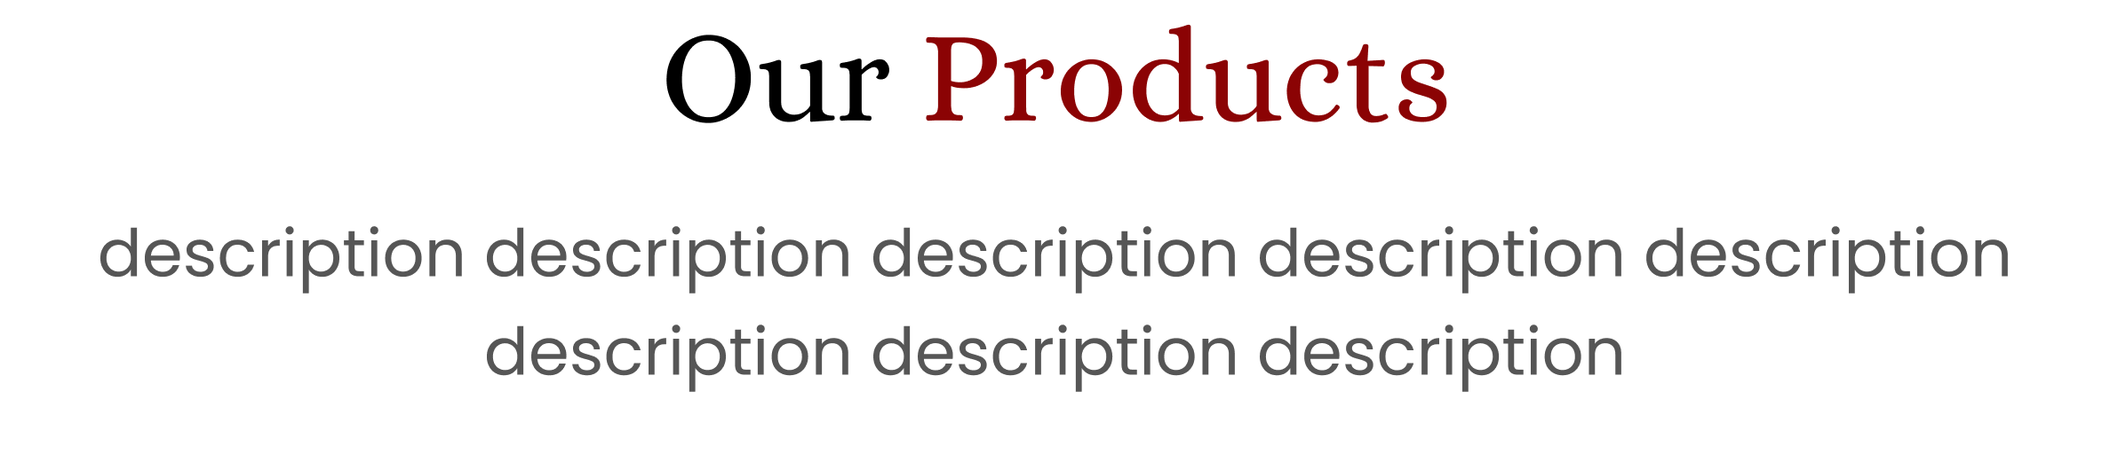
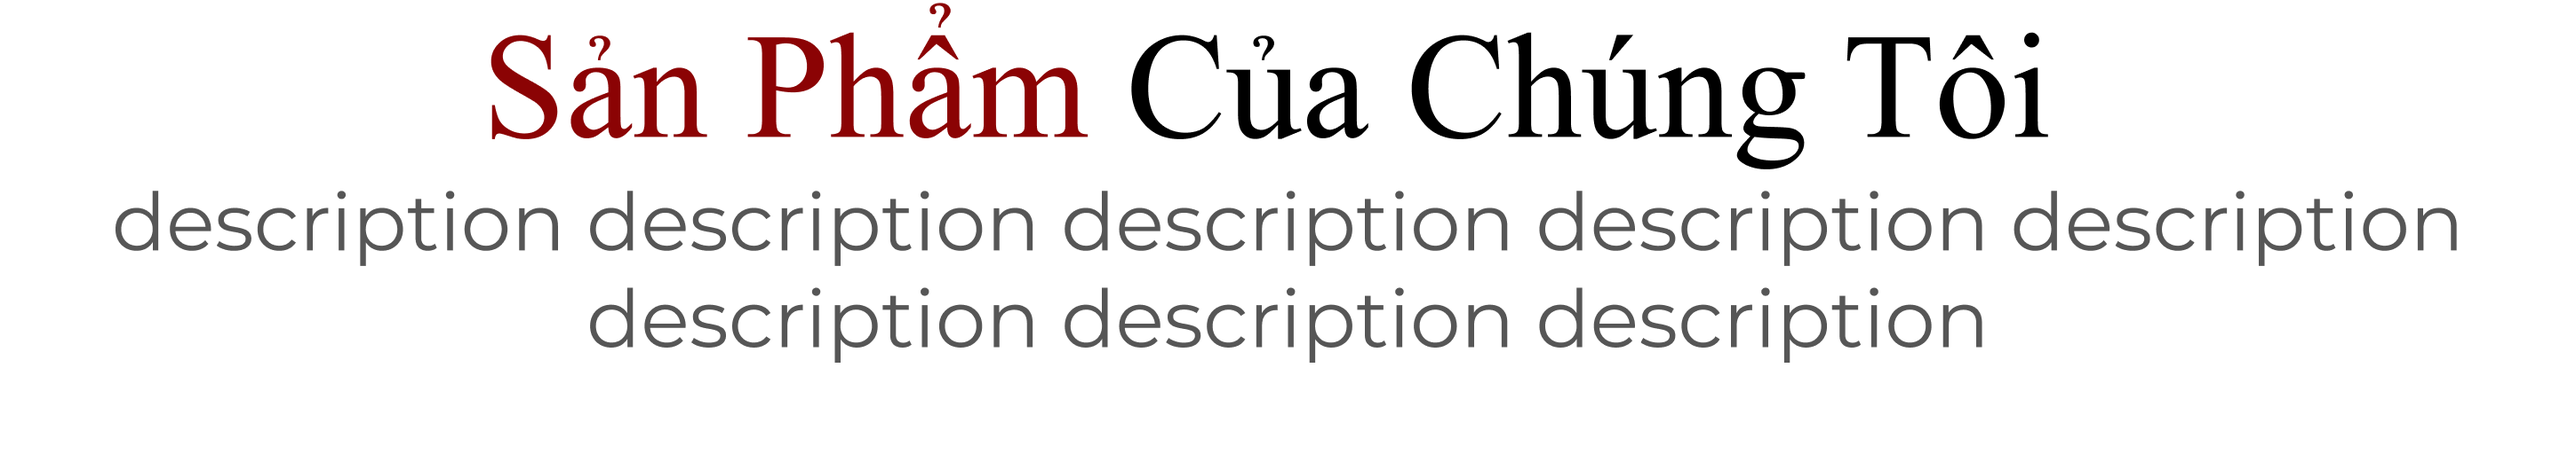
hehehehehehe

Changed region(s): [[0.0312, 0.4375, 0.9659, 0.8438], [0.1869, 0.0625, 0.8101, 0.375], [0.3427, 0.0, 0.3739, 0.0312]]

diff --git a/index.html b/index.html
@@ -10,17 +10,21 @@
 <body>
     <div class="header">
         <img class="logo"src="Images/zyro-image 1.png">
+        <div class="menu-bar">
+            <div style="color:#8B0304;margin-left: 4%;">Trang chủ</div>
+            <div>Về công ty</div>
+            <div>Sản phẩm</div>
+            <div>Blog</div>
+        </div>
         <div class="search-bar">
             <input class="searchh" type="text" placeholder="Tìm kiếm...">
             <button>
                 <img class="searchicon" src="images/search-icon.png">
             </button>
         </div>
-        <div class="menu-bar">
-            <div style="color:#8B0304;margin-left: 4%;">Home</div>
-            <div>About</div>
-            <div>Products</div>
-            <div>Blog</div>
+        <div class="login-sign">
+            <div class="login">Đăng nhập/Đăng kí</div>
+            <img class="profile" src="Images/profile-circle.png">
             <img class="bag" src="images/bag.png">
         </div>
     </div>
@@ -28,7 +32,7 @@
         <div class="invisible1">
             <div>Chả giò Chà Bông</div>
             <div>Chất lượng</div>
-            <button class="button1"> SHOP NOW</button>
+            <button class="button1">Mua hàng</button>
         </div>
         <img class="yellow" src="Images/Ellipse 2.png">
         <img class="crispy" src="Images/Crispy-Spring-Rolls-PNG-Image 1.png">
@@ -37,9 +41,9 @@
     <div class="main-page">
         <img class="product-title"src="Images/Products title.png">
         <div class="page-number">
-            <button class="page">Page 1</button>
-            <button class="page">Page 2 </button>
-            <button class="page">Page 3</button>
+            <button class="page">Trang 1</button>
+            <button class="page">Trang 2 </button>
+            <button class="page">Trang 3</button>
         </div>
         <div class="product-show1">
             <div class="line1">
@@ -96,9 +100,9 @@
             </div>
         </div>
         <div class="page-number" style="margin-top:7vw">
-            <button class="page">Page 1</button>
-            <button class="page">Page 2 </button>
-            <button class="page">Page 3</button>
+            <button class="page">Trang 1</button>
+            <button class="page">Trang 2 </button>
+            <button class="page">Trang 3</button>
         </div>
         <img class="About" src="Images/ABOUT.png">
         <img class="keep-order" src="Images/keep your order.png">
@@ -119,7 +123,32 @@
             </div>
             <img class="uber" src="Images/uber.png">
         </div>
-        <img class="footer" src="Images/footer.png">
+        <img class="blog" src="Images/blog.png">
+        <div class="blog-info">
+            <button class="arrow1">
+                <img class="a1" src="Images/arrow1.png">
+            </button>
+            <div class="blog1">
+                <img class="blog-product1" src="images/blog-product1.png">
+                <div class="huhu1">TITLE</div>
+                <div class="huhu2">Noi dung</div>
+                <button class="cry1">
+                    <img class=cry2 src="Images/doc them.png">
+                </button>
+            </div>
+            <div class="blog2">
+                <img class="blog-product1" src="images/blog-product1.png">
+                <div class="huhu1">TITLE</div>
+                <div class="huhu2">Noi dung</div>
+                <button class="cry1">
+                    <img class=cry2 src="Images/doc them.png">
+                </button>
+            </div>
+            <button class="arrow2">
+                <img class="a2" src="Images/arrow2.png">
+            </button>
+        </div>
     </div>
+    <img class="footer" src="Images/footer.png">
 </body>
 </html>

diff --git a/style.css b/style.css
@@ -6,13 +6,12 @@ body{
 .header{
     position: relative;
     height:11%;
-    border:solid;
     width:100%;
     display: flex;
     flex-direction:row;
     align-items: center;
     justify-content: space-between;
-    background-color: white;
+    background-color: rgb(248, 248, 248);
 }
 .logo{
     max-width:6vw;
@@ -21,30 +20,30 @@ body{
 .menu-bar{
     display: flex;
     align-items: center;
-    width:34vw;
+    width:36vw;
     height:4vw;
-    margin-right:1vw;
-}
+    justify-content: space-between;
+}   
 .menu-bar div{
-    margin-right:3.2vw;
     font-size:1.4vw;
+    width:fit-content;
 }
 .bag{
     height:2.8vw;
     width:3vw;
-    margin-right: 1vw;
 }
 .search-bar{
     position: relative;
     width:25vw;
     height:2.5vw;
-    border:solid;
     border-color: #ECECEC;
     background-color: #ECECEC;
     border-radius: 50px;
     display: flex;
     align-items: center;
     justify-content: space-between;
+    margin-right:2vw;
+    margin-left:3.2vw;
 }
 .searchh{
     width:20vw;
@@ -73,13 +72,29 @@ body{
 .search-bar button:hover{
     cursor: pointer;
 }
+.login-sign{
+    display:flex;
+    width:28vw;
+    height:3.2vw;
+    align-items: center;
+    justify-content: end;
+}
+.login{
+    font-size:1.3vw;
+    margin-right:1vw;
+    font-family:Monterrat;
+} 
+.profile{
+    height:3vw;
+    width:3.5vw;
+    margin-right:1vw;
+}
 .home{
     height:45vw;
     width:100%;
     display:flex;
     justify-content: space-between;
     position: relative;
-    border:solid;
 }
 .invisible1{
     height:fit-content;
@@ -102,7 +117,7 @@ body{
     border-radius:6px;
     margin-top:3%;
     border-style: none;
-    font-size:1vw;
+    font-size:1.5vw;
     font-family: Alice;
 }
 .button1:hover{
@@ -133,7 +148,7 @@ body{
 }
 .main-page{
     width:100%;
-    height:270vw;
+    height:298vw;
     display: flex;
     flex-direction: column;
     align-items: center;
@@ -157,6 +172,8 @@ body{
     background-color:rgb(255, 253, 253);
     color:black;
     box-shadow: 0 2px 2px 2px rgba(129, 129, 129, 0.514);
+    font-size:1.5vw;
+    font-family:Poppin;
 }
 .page:hover{
     cursor: pointer;
@@ -288,7 +305,91 @@ body{
     font-family:Poppin;
     src:url('https://fonts.google.com/specimen/Poppins?query=poppins')
 }
+
+.blog{
+    width:70%;
+    height:auto;
+    margin-top:5vw;
+}
+.blog-info{
+    width:90%;
+    height:40vw;
+    margin-top:4vw;
+    display:flex;
+    align-items: center;
+}
+.a1{
+    width:8vw;
+}
+.a2{
+    width:8vw;
+}
+.arrow1,.arrow2{
+    background-color:white;
+    border:none;
+}
+.arrow1:hover{
+    cursor:pointer;
+}
+.arrow2:hover{
+    cursor:pointer;
+}
+.blog1{
+    position: relative;
+    border:none;
+    width:30vw;
+    height:84%;
+    margin-right:6vw;
+    margin-left:2vw;
+    background-color:rgb(255, 253, 253);
+    box-shadow: 0 2px 2px 2px rgba(129, 129, 129, 0.514);
+    border-radius:10px;
+}
+.blog2{
+    border:none;
+    width:30vw;
+    height:84%;
+    margin-right:2vw;
+    background-color:rgb(255, 253, 253);
+    box-shadow: 0 2px 2px 2px rgba(129, 129, 129, 0.514);
+    border-radius:10px;
+}
+.blog-product1{
+    width:90%;
+    height:auto;
+    margin-top:1vw;
+    margin-left: 1.55vw;
+}
+.huhu1 ,.huhu2{
+    width:100%;
+    text-align: center;
+    margin-top:1vw;
+}
+.huhu2{
+    font-size: 1.3vw;
+}
+.huhu1{
+    font-size:2vw;
+}
+.cry1{
+    right:2px;
+    bottom:10px;
+    margin-top: 3vw;
+    border:none;
+    background-color: white;
+    margin-left:16vw;
+}
+.cry1:hover{
+    cursor: pointer;
+}
+.cry2{
+    width:13vw;
+}
 .footer{
     width:100%;
-    margin-top:4vw;
+    margin-top:1vw;
+}
+@font-face{
+    font-family:Monterrat;
+    src:url('https://fonts.google.com/specimen/Montserrat?query=mon')
 }
